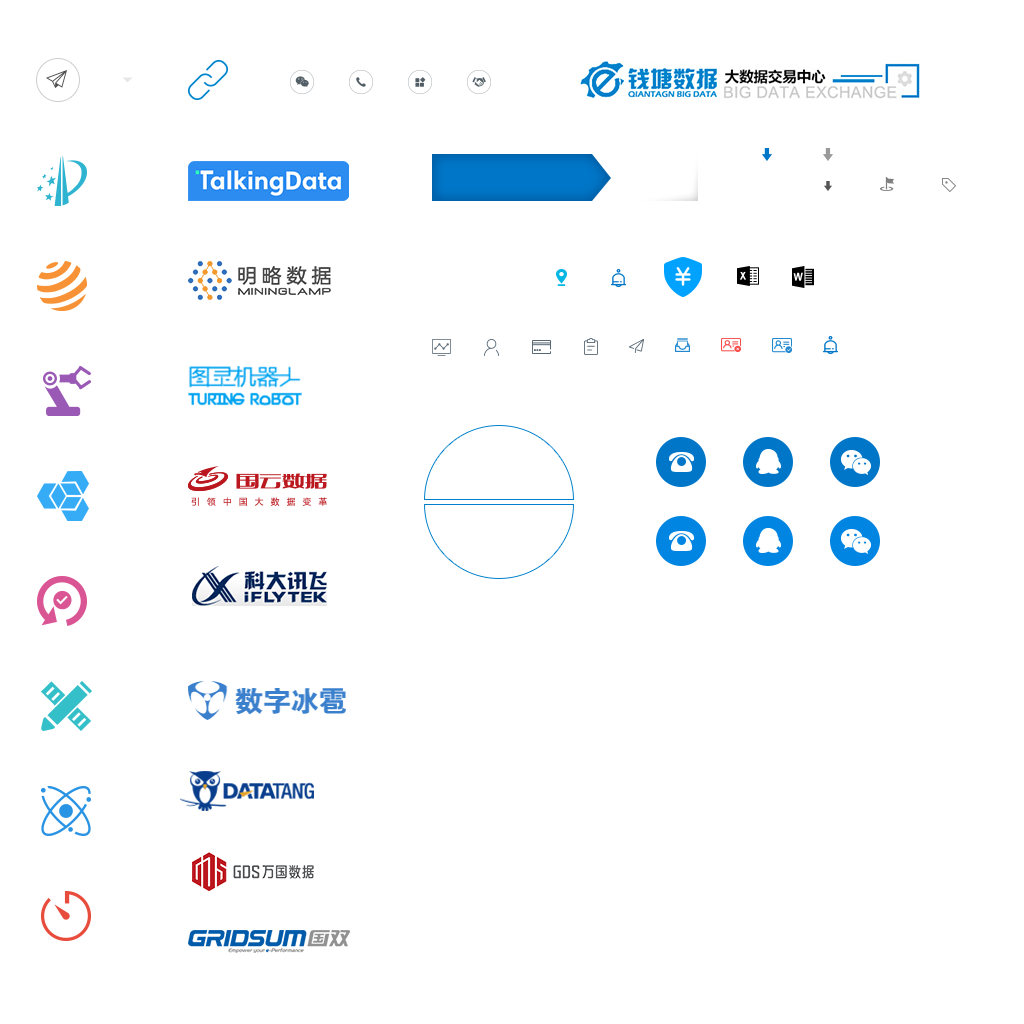
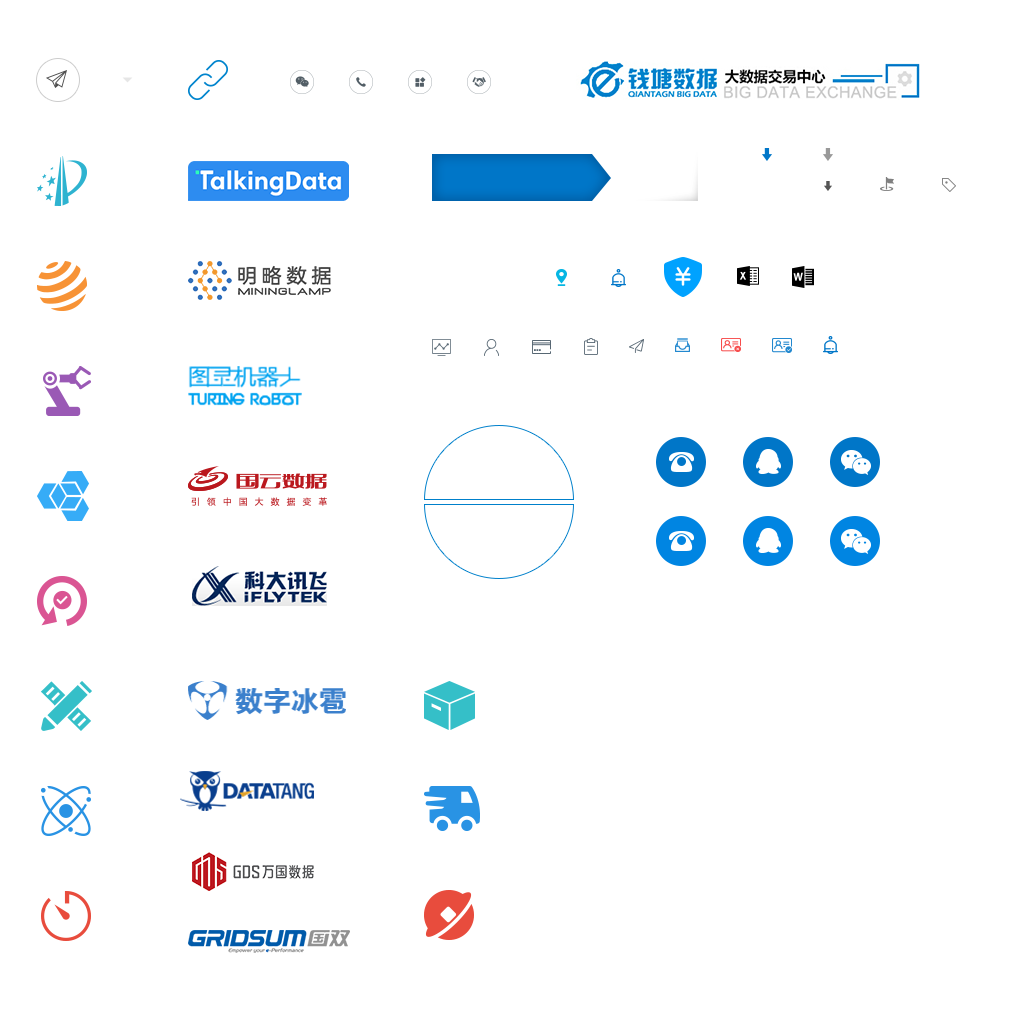
数据商城  首页修改

Changed region(s): [[0.4062, 0.8438, 0.4688, 0.9375], [0.4062, 0.75, 0.4688, 0.8125], [0.4062, 0.6562, 0.4688, 0.7188]]

diff --git a/qt-trading-web/src/main/resources/templates/index.html b/qt-trading-web/src/main/resources/templates/index.html
@@ -54,33 +54,33 @@
         <ul class="pro_list pro_list1 floating">
             <li>
                 <i class="pro_i1"></i>
-                <h3>知识专利</h3>
+                <h3>产权专利</h3>
                 <p>整合工业行业的知识产权数据资源，集成专利基础库，标准专利信息库，案例信息库等</p>
-                <a th:href="@{/datamart}+'/1'" class="pro_mask">
+                <a th:href="@{/datamart}+'/28'" class="pro_mask">
                     <i></i>
                 </a>
             </li>
             <li>
                 <i class="pro_i2"></i>
-                <h3>物联网</h3>
-                <p>收集工业RFID、工业传感器、工业自动控制系统等数据</p>
-                <a th:href="@{/datamart}+'/3'"  class="pro_mask">
+                <h3>行业综合</h3>
+                <p>整合工业运行、生产、交易、管理等多维数据</p>
+                <a th:href="@{/datamart}+'/29'"  class="pro_mask">
                     <i></i>
                 </a>
             </li>
             <li>
                 <i class="pro_i3"></i>
-                <h3>智能制造</h3>
-                <p>集工业机器人，智能终端，生产线等各种智能制造设备的数据</p>
-                <a  th:href="@{/datamart}+'/2'" class="pro_mask">
+                <h3>工业生产</h3>
+                <p>收集工业行业对生产、交易、管理、经济、社会等运行时的影响和分析数据</p>
+                <a  th:href="@{/datamart}+'/30'" class="pro_mask">
                     <i></i>
                 </a>
             </li>
             <li>
                 <i class="pro_i4"></i>
-                <h3>行业综合</h3>
-                <p>整合工业各行业运行、生产、交易、管理等多维度数据</p>
-                <a  th:href="@{/datamart}+'/13'" class="pro_mask">
+                <h3>工业产品</h3>
+                <p>在工业产品设计方面、专利、创意、规范等数据</p>
+                <a  th:href="@{/datamart}+'/31'" class="pro_mask">
                     <i></i>
                 </a>
             </li>
@@ -88,33 +88,33 @@
         <ul class="pro_list floating">
             <li>
                 <i class="pro_i5"></i>
-                <h3>工业运行</h3>
-                <p>收集工业行业对生产、交易、管理、经济、社会等运行时的影响和分析数据</p>
-                <a th:href="@{/datamart}+'/9'" class="pro_mask">
+                <h3>智能制造</h3>
+                <p>集工业机器人、智能终端、生产线等各种智能制造设备的数据</p>
+                <a th:href="@{/datamart}+'/32'" class="pro_mask">
                     <i></i>
                 </a>
             </li>
             <li>
                 <i class="pro_i6"></i>
-                <h3>工业设计</h3>
-                <p>在工业产品设计方面，专利、创意、规范标准等数据</p>
-                <a th:href="@{/datamart}+'/11'" class="pro_mask">
+                <h3>物联网</h3>
+                <p>收集工业RFID、工业传感器、工业自动控制系统等数据</p>
+                <a th:href="@{/datamart}+'/33'" class="pro_mask">
                     <i></i>
                 </a>
             </li>
             <li>
                 <i class="pro_i7"></i>
-                <h3>工业参数</h3>
-                <p>整理工业各行业各环节的规范参数数据</p>
-                <a  th:href="@{/datamart}+'/4'"class="pro_mask">
+                <h3>交通物流</h3>
+                <p>汇集全国各地的物流信息、物流公司、物流资源等服务数据</p>
+                <a  th:href="@{/datamart}+'/34'"class="pro_mask">
                     <i></i>
                 </a>
             </li>
             <li>
                 <i class="pro_i8"></i>
-                <h3>仪器仪表</h3>
-                <p>集齐各行业仪表的数据管理系统，给出结构化数据</p>
-                <a th:href="@{/datamart}+'/5'" class="pro_mask">
+                <h3>科技金融</h3>
+                <p>汇集一系列高新技术产业下的金融工具、制度、政策与服务等系统性、创新性数据</p>
+                <a th:href="@{/datamart}+'/35'" class="pro_mask">
                     <i></i>
                 </a>
             </li>

diff --git a/qt-trading-web/src/main/resources/static/tradecenter/js/dataMartList.js b/qt-trading-web/src/main/resources/static/tradecenter/js/dataMartList.js
@@ -16,11 +16,18 @@ $(".data_sort>li>a").mouseenter(function(){
                 },
                 success:function(obj){
                     var data=obj.pageInfo.list;
-                    var str="";
-                    for(var i=0;i<data.length;i++){
-                        str+='<a href="/datamart/'+$(me).attr("data-id")+'/'+data[i].id+'">'+data[i].name+'</a>'
+                    console.log(data);
+                    console.log(data=="");
+                    if(data==""){
+                        $(me).next().hide();
+                    }else{
+                        var str="";
+                        for(var i=0;i<data.length;i++){
+                            str+='<a href="/datamart/'+$(me).attr("data-id")+'/'+data[i].id+'">'+data[i].name+'</a>'
+                        }
+                        $(me).next().html(str);
                     }
-                    $(me).next().html(str);
+
                 },
                 error:function(){
                     layer.msg("获取二级列表失败",{icon:5});

diff --git a/qt-trading-web/src/main/resources/static/tradecenter/css/index.css b/qt-trading-web/src/main/resources/static/tradecenter/css/index.css
@@ -83,8 +83,8 @@
 }
 .pro_list>li>i{
     display:block;
-    width:51px;
-    height:51px;
+    width:60px;
+    height:55px;
     margin:0px auto;
     background-image:url("../images/icon.png" );
 }
@@ -92,25 +92,25 @@
     background-position:-37px -157px;
 }
 .pro_i2{
-    background-position:-37px -261px;
-}
-.pro_i3{
-    background-position:-40px -366px;
-}
-.pro_i4   {
     background-position:-37px -471px;
 }
+.pro_i3{
+    background-position:-37px -576px;
+}
+.pro_i4   {
+    background-position:-419px -677px;
+}
 .pro_i5{
-     background-position:-37px -576px;
+    background-position:-40px -366px;
  }
 .pro_i6{
-    background-position:-41px -679px;
+    background-position:-35px -260px;
 }
 .pro_i7{
-    background-position:-41px -785px;
+    background-position:-422px -777px;
 }
 .pro_i8{
-    background-position:-40px -891px;
+    background-position:-420px -886px;
 }
 .pro_list>li>h3{
     color:#2A97E7;

diff --git a/qt-trading-web/src/main/resources/static/tradecenter/css/dataMartList.css b/qt-trading-web/src/main/resources/static/tradecenter/css/dataMartList.css
@@ -111,11 +111,14 @@
     border-bottom:1px solid #ddd;
 }
 .data_sort li>a{
-    position:absolute;
-    width:140px;
-    padding-left:20px;
-    font-size:18px;
-    color:#555;
+     position:absolute;
+     width:140px;
+     padding-left:20px;
+     font-size:18px;
+     color:#555;
+ }
+.data_sort li>a.active{
+    color:#0276C6;
 }
 .data_sort li>i{
     float:right;
@@ -129,7 +132,7 @@
 .data_sort li>p{
     position:absolute;
     width:140px;
-    height:815px;
+    height:528px;
     top:-1px;
     right:-142px;
     border:1px solid #ddd;
@@ -153,6 +156,7 @@
      color:#0276C6;
  }
 .data_sort li.active>a,.data_sort li.active i{
+    color:#0276C6;
     border-left-color:#0276C6;
 }
 .data_sort li.active p{

diff --git a/qt-trading-web/src/main/resources/templates/layout/header.html b/qt-trading-web/src/main/resources/templates/layout/header.html
@@ -24,7 +24,7 @@
 		<p class="nav_list nav_list1 lf">
 			<a th:href="@{/}">首页</a>
 			<a th:href="@{/datamart}">数据商城</a>
-			<a th:href="@{/demand}">数据定制</a>
+			<a th:href="@{/demand}">数据众包</a>
 			<a th:href="@{/fedration}">数据联盟</a>
 			<a th:href="@{/about}">关于我们</a>
 		</p>

diff --git a/qt-trading-web/src/main/resources/static/tradecenter/js/pagedata.js b/qt-trading-web/src/main/resources/static/tradecenter/js/pagedata.js
@@ -275,7 +275,8 @@ var pageData = {
     },
     //数据内 p 标签截取
     _replacestr: function (str2,i) {
-        str2=str2.replace("<p>","").replace("</p>","");
+        var reg=/<[^>]*>/g;
+        str2=str2.replace(reg,"");
         if(str2.length>i){
             str2=str2.substring(0,i)+"...";
         }

diff --git a/qt-trading-web/src/main/resources/static/tradecenter/css/dataMartDetail.css b/qt-trading-web/src/main/resources/static/tradecenter/css/dataMartDetail.css
@@ -15,8 +15,7 @@
 }
 .detail_img>img{
     position: absolute;
-    min-width: 100%;
-    min-height: 100%;
+    height:100%;
     top: 50%;
     left: 50%;
     transform:translate(-50%,-50%);
